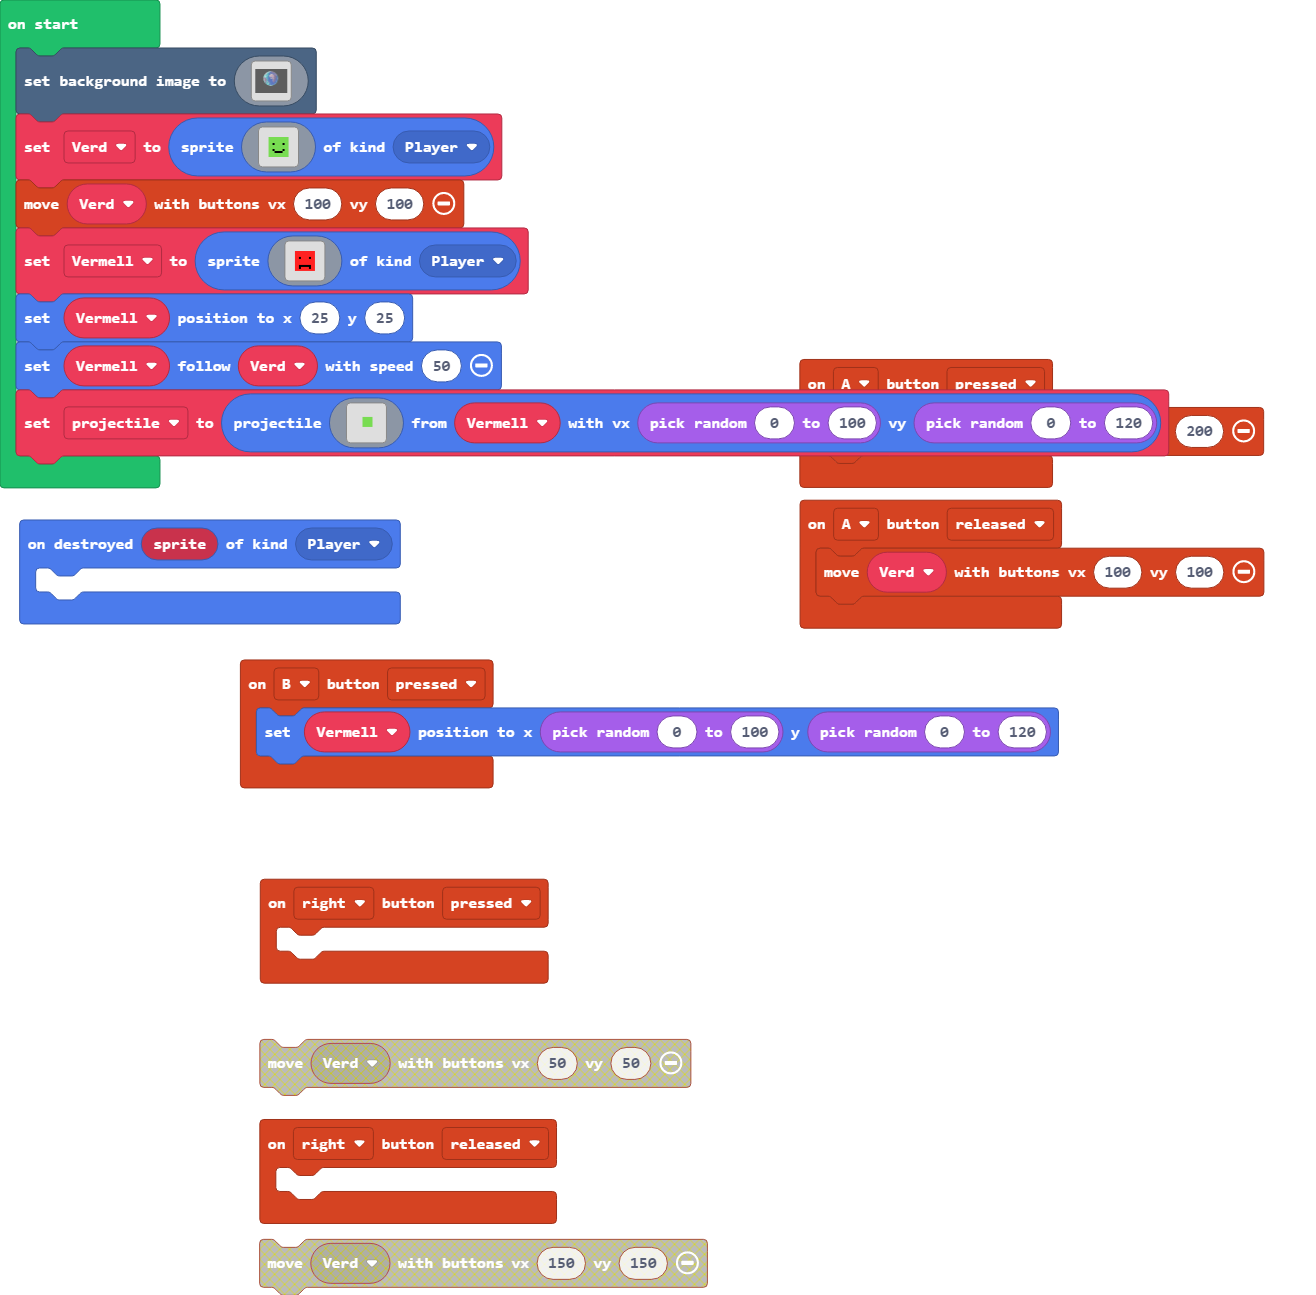
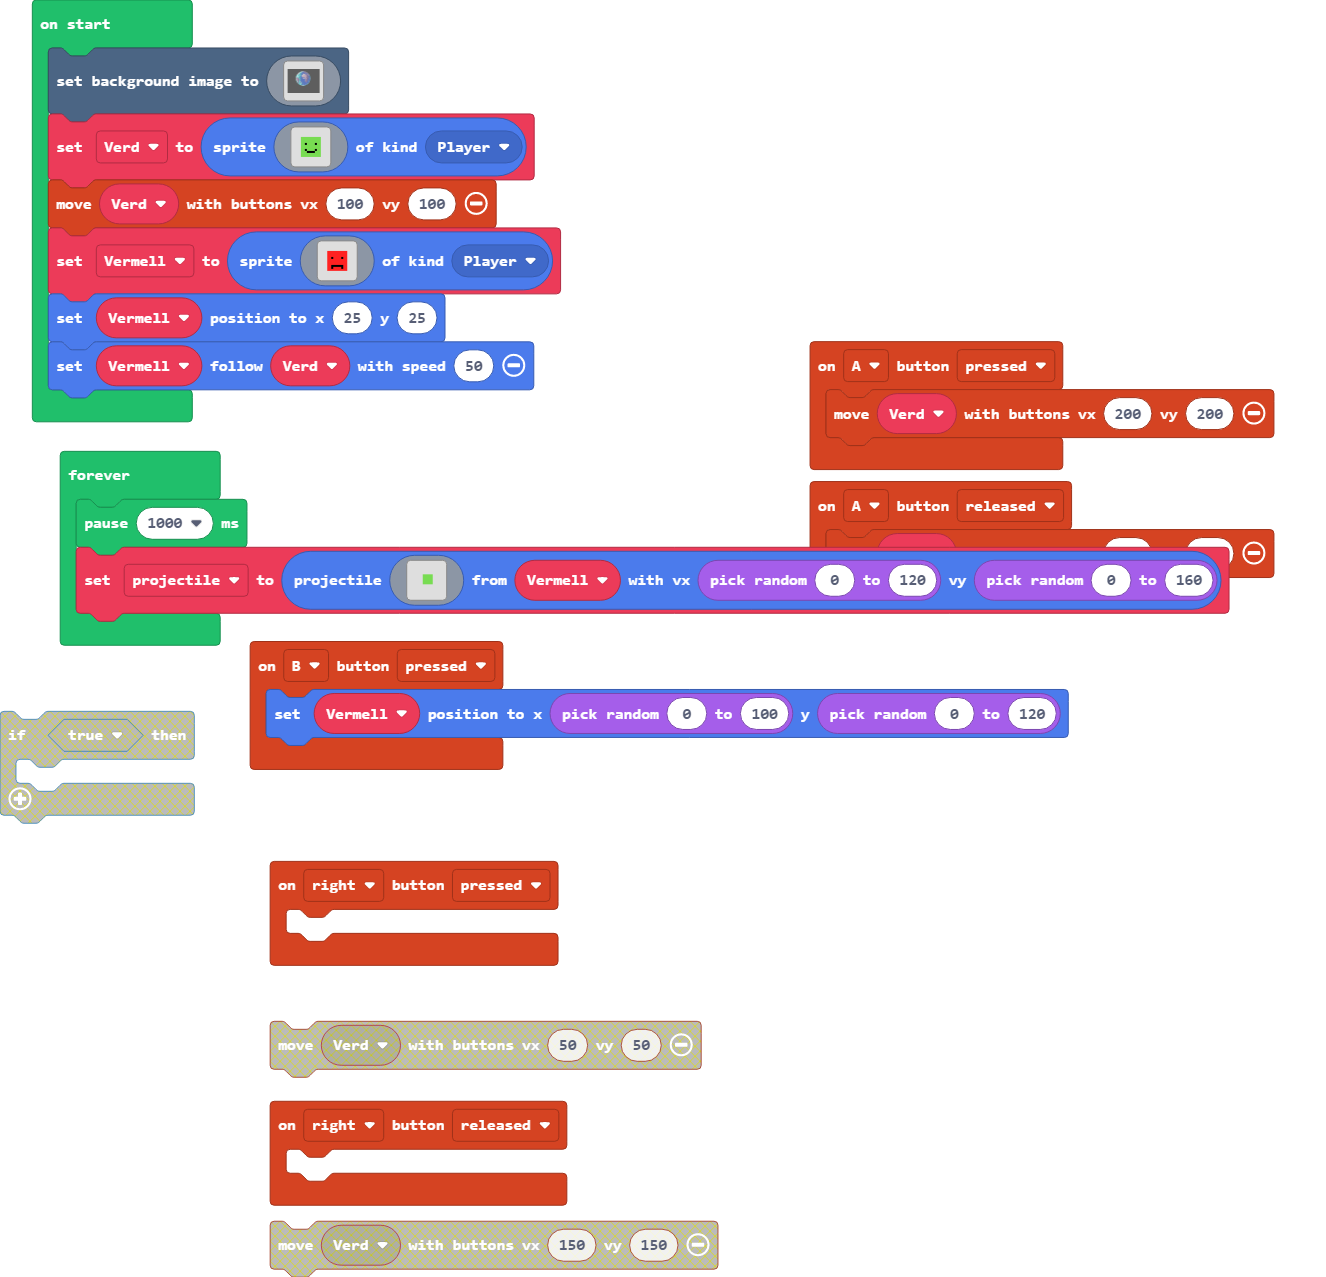
Update main.blocks, main.ts

Changed region(s): [[0.0, 0.0, 0.9658, 0.6413], [0.1869, 0.794, 0.5608, 1.0], [0.1869, 0.6719, 0.4362, 0.7635]]

diff --git a/main.ts b/main.ts
@@ -13,9 +13,7 @@ controller.right.onEvent(ControllerButtonEvent.Pressed, function () {
 controller.A.onEvent(ControllerButtonEvent.Released, function () {
     controller.moveSprite(Verd, 100, 100)
 })
-sprites.onDestroyed(SpriteKind.Player, function (sprite) {
-	
-})
+let projectile: Sprite = null
 let Vermell: Sprite = null
 let Verd: Sprite = null
 scene.setBackgroundImage(img`
@@ -179,4 +177,7 @@ Vermell = sprites.create(img`
     `, SpriteKind.Player)
 Vermell.setPosition(25, 25)
 Vermell.follow(Verd, 50)
-let projectile = sprites.createProjectileFromSprite(assets.image`Projectile`, Vermell, randint(0, 100), randint(0, 120))
+forever(function () {
+    pause(1000)
+    projectile = sprites.createProjectileFromSprite(assets.image`Projectile`, Vermell, randint(0, 120), randint(0, 160))
+})
